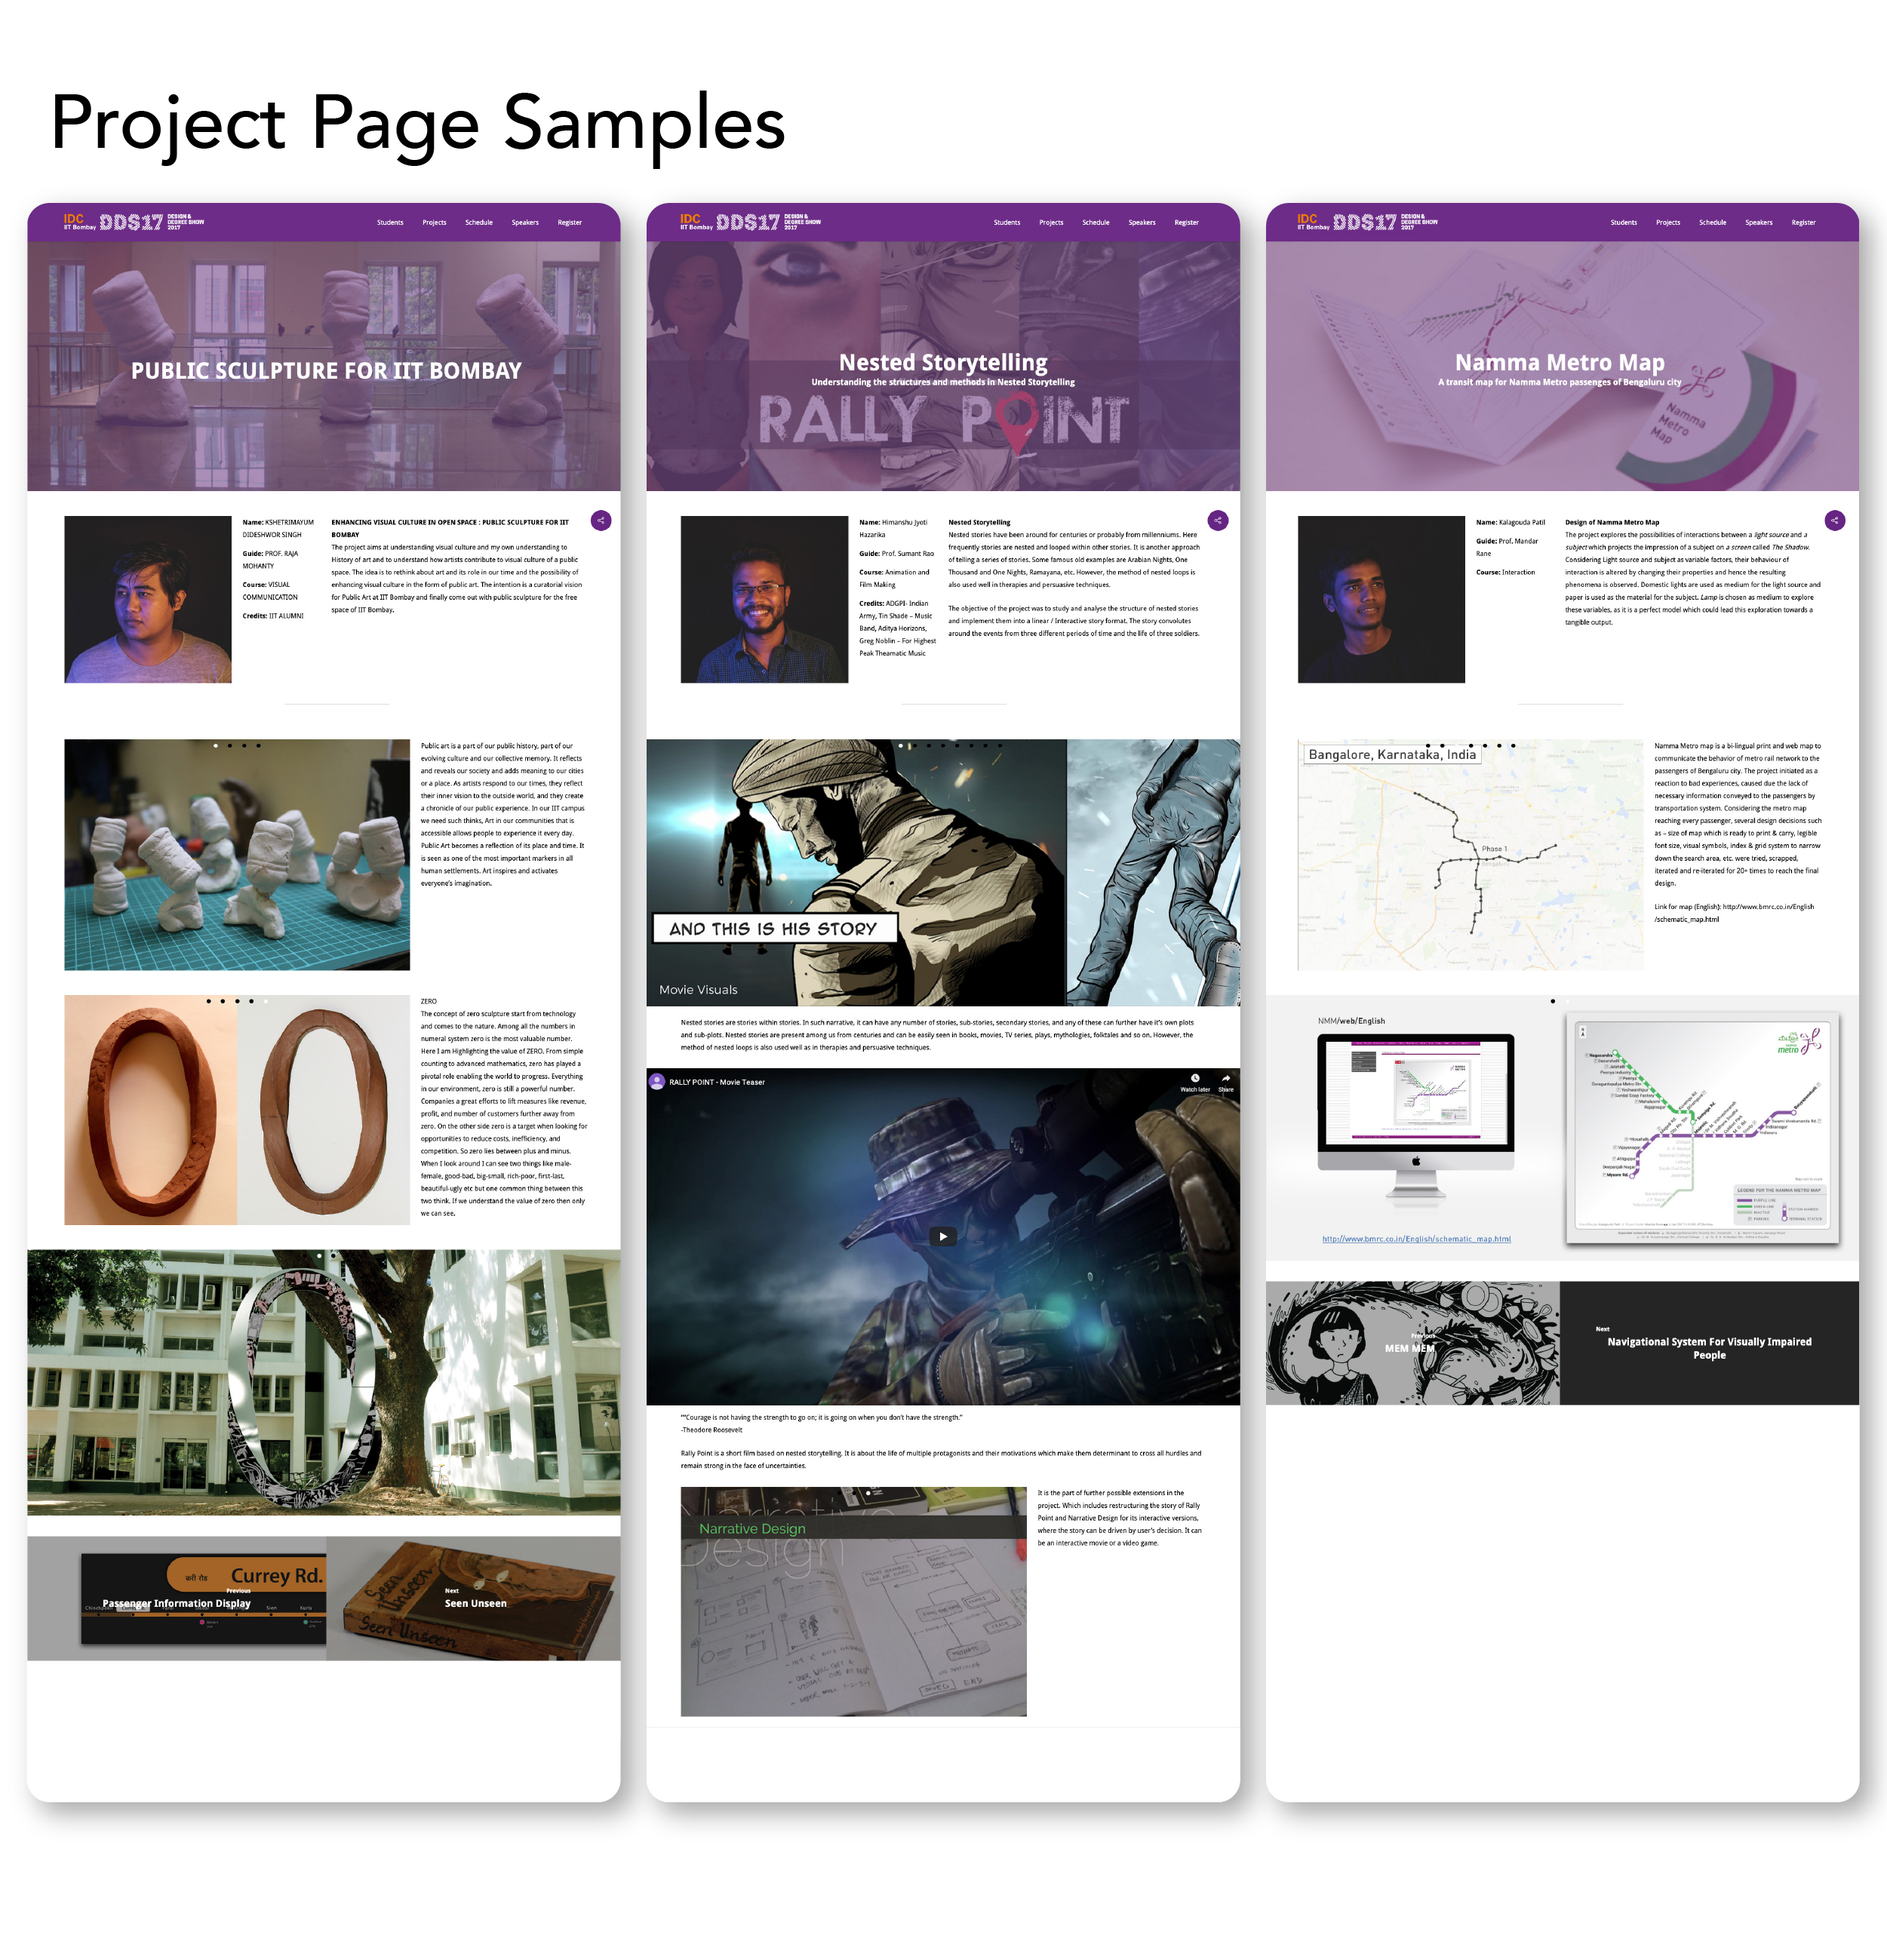
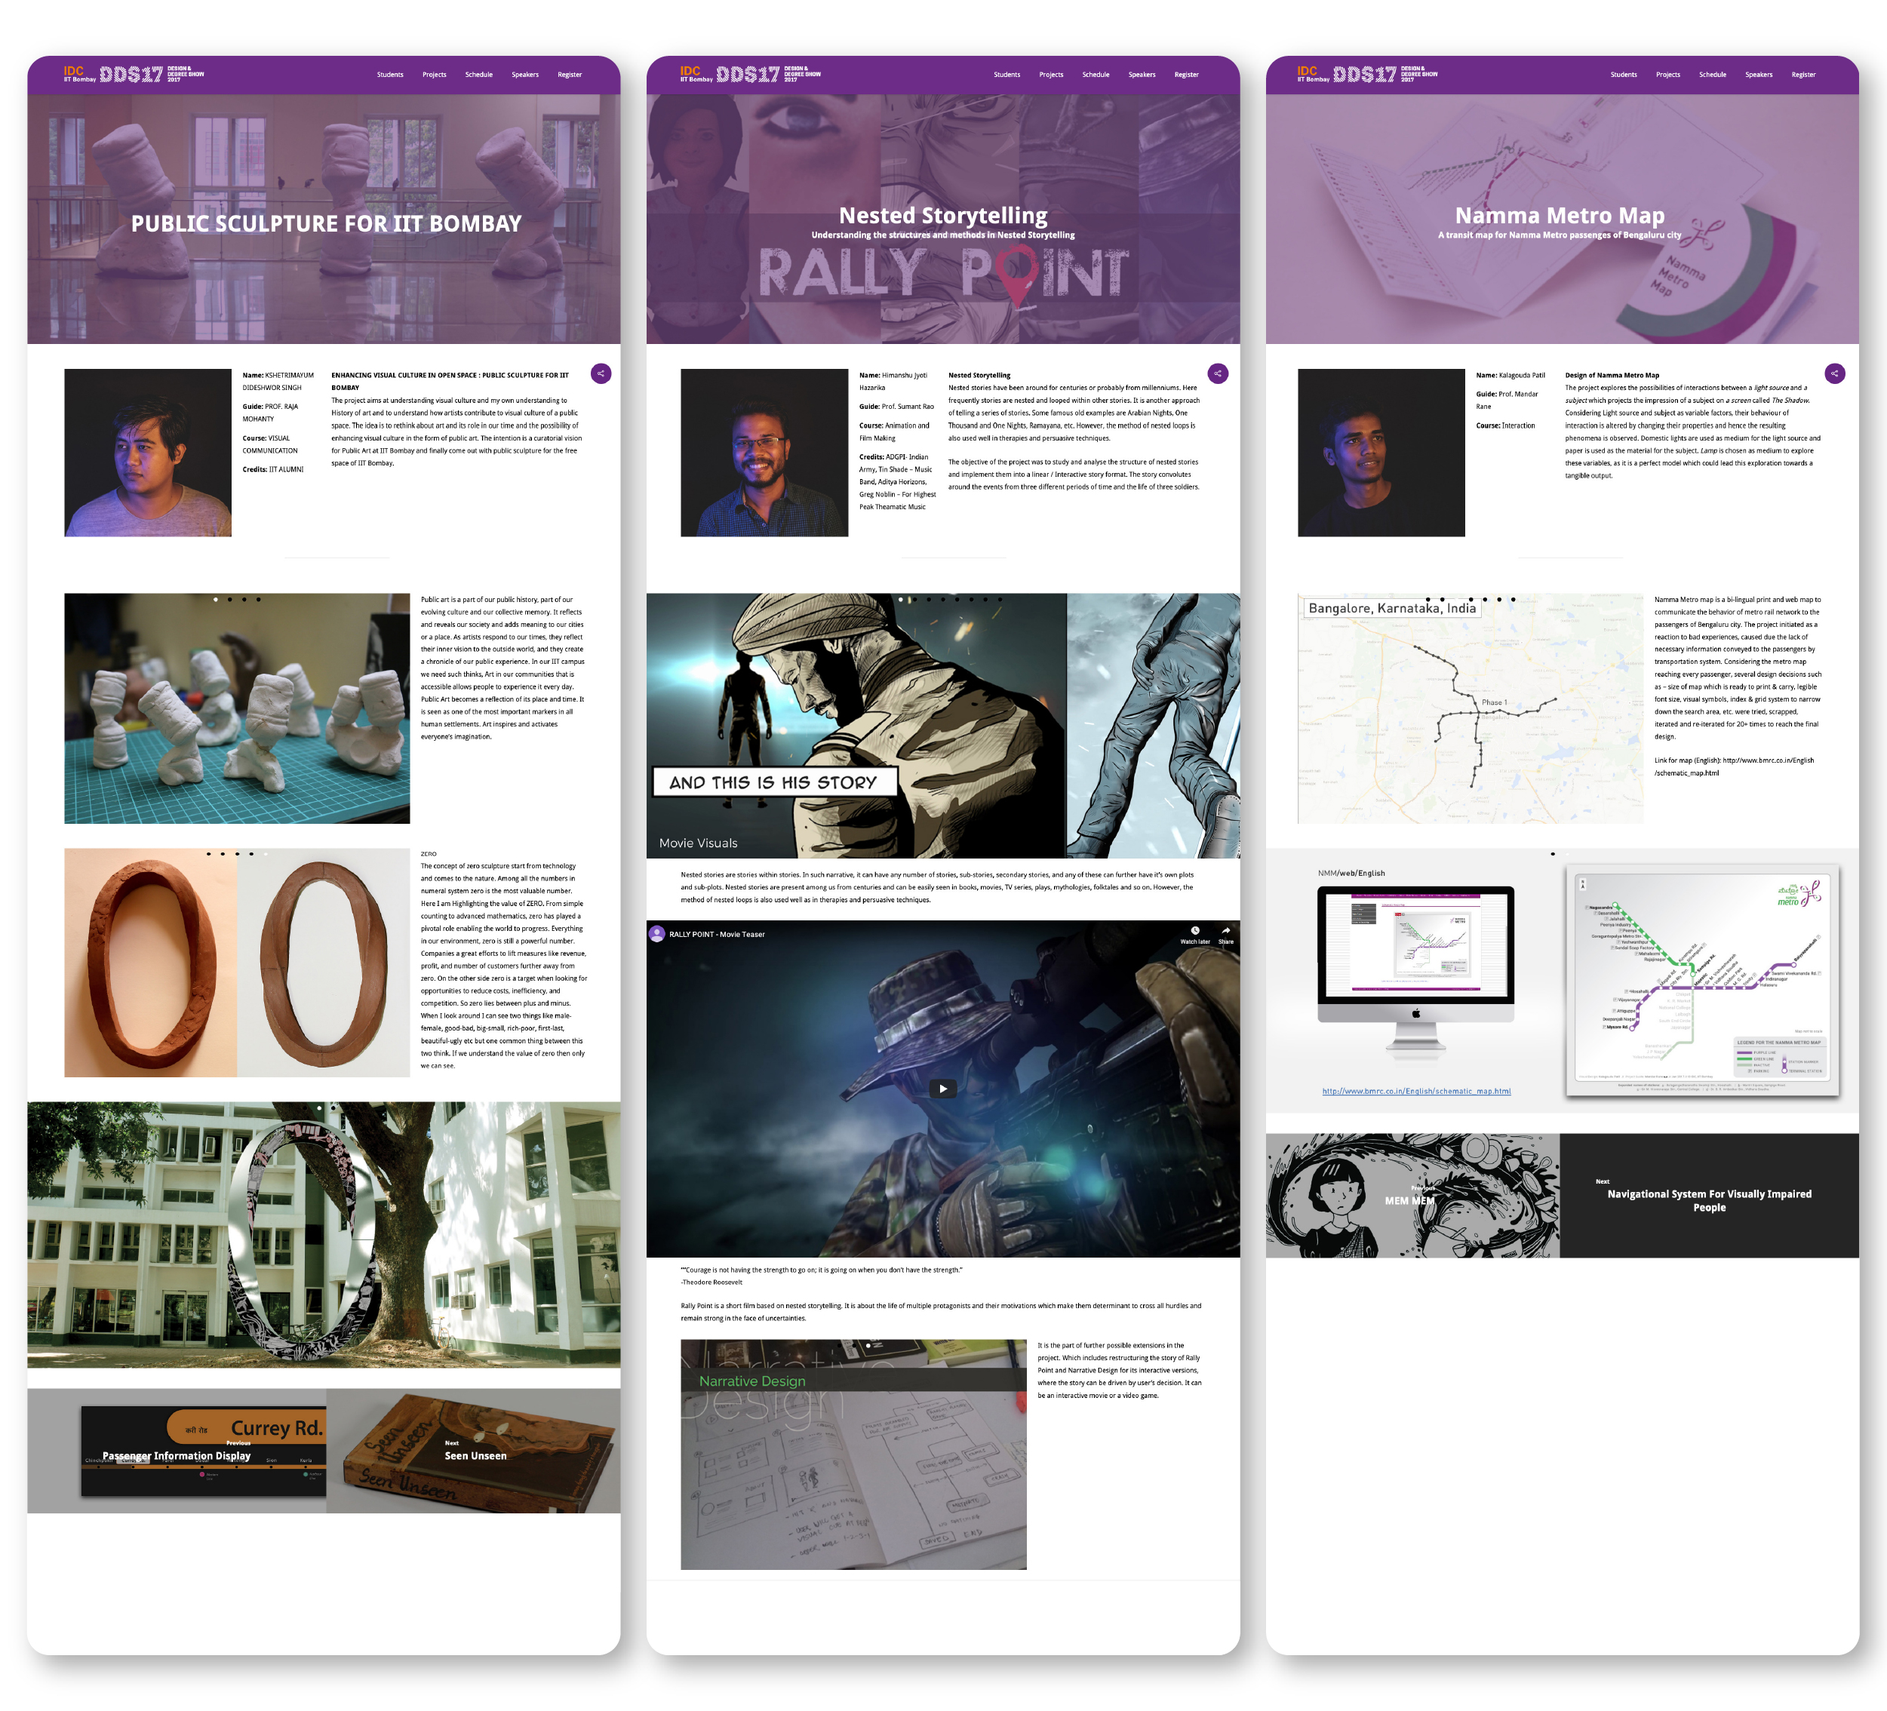
DDS page done

diff --git a/U18_DDS.html b/U18_DDS.html
@@ -1,0 +1,80 @@
+<html>
+<head>
+
+<meta charset="UTF-8">
+<title>Web Design for Design Degree Show - 2017 </title>
+  <link rel="stylesheet" type="text/css" href="res/style.css">
+<link href="https://fonts.googleapis.com/css?family=Nunito&display=swap" rel="stylesheet">
+  <link rel="icon" href="res/fav.png" type="image/gif" sizes="16x16">
+</head>
+
+
+
+<body>
+
+<!-- menu bar standard -->
+  <div class ="top">
+      <h3 id = "home-button" > <a href="index.html" class="logo"> <b>Chandni Rajendran </b></a> </h3>
+      <h3 id = "resume-button"> <a href="resume.html"> resume </a></h3>
+      <h3 id = "about-button"> <a href="about.html">about </a> </h3>
+  </div>
+
+
+  <div class="content">
+      <h3> Website for DDS 2017</h3>
+      <p> Design Degree Show is the annual convention of IDC School of Design, IIT Bombay. It's a platform for the graduating batch of students to showcase their work in a physical and virtual exhibition. It is organised by the graduating batch, working in committees such as events, venue, display, speakers, social media, promotions, sponsors, and digital experience (which I had taken responsibility for).</p>
+      <button href="ddsidc.com/2017/" class="mybutton"> DDS Website </button>
+      <img src="res/U18_DDS/ch_1.jpg">
+      <p>The visual design, branding, student photo-shoot and social media collaterals for the site were created by  <a href="http://ddsidc.com/2017/portfolio/sachit/" target="_blank">Sachit Shyam</a> and <a href="http://ddsidc.com/2017/portfolio/rishabh/" target="_blank"> Rishabh Pandey</a> of Communication Design stream. </p>
+      <img src="res/U18_DDS/ch_8.gif" class="small-img">
+      <p> Key roles of the webiste:
+        <br>
+        - For interested participants to find information about the event.
+        <br>
+        - Target audience: industry professionals, students, design enthusiasts, design community
+        <br>
+        - To showcase students' projects, profiles
+        <br>
+        - Event schedule, speaker details
+        <br>
+        - Ticket booking, payments, modifications
+     </p>
+      <img src="res/U18_DDS/ch_2.jpg">
+      <p> The website was developed on wordpress, using a Salient theme. We went ahead with this $50 theme as it had the most versatile options for handling the kind of content we were planning.</p>
+      <img src="res/U18_DDS/ch_3.jpg">
+      <p> The primary purpose of this website is to serve as a platform for students' work to be available online <del> forever</del> for several years to come.
+      <br>
+      Design of the project page, therefore, was fairly important, and we had to build consensus among all students to ensure the format would do justice to their work and show it in the best light. </p>
+      <img src="res/U18_DDS/ch_4.jpg">
+      <p>Once the common format was agreed upon, we had to create a data collection system, so we could generate roughly 60x3 project pages seamlessly. This included images in specific sizes and text with word limits.
+      <br>
+      In hindsight, it might have been much easier to create editor profiles for all students and enabled them to create their own project pages. It seemed like a challenge to conduct an orientation session with everybody, but it may have been worth the trouble.
+      <br>
+      <br>
+      But were we open to styling each page differently? We should have been. There was an unjustified need to standardise the entire website, but using a powerful CMS like wordpress, we could have created much more room for personal expression.
+      <br>
+      <br>
+      #Learning #DesignerEvolving
+      <br>
+      <br>
+      Here are a few sample project pages:</p>
+      <img src="res/U18_DDS/ch_5.jpg">
+      <p>The student profile page, with all essential information, links to projects: </p>
+      <img src="res/U18_DDS/ch_6.jpg">
+      <p> Summary: I was primarily responsibility for the digital experience. It involved planning, design, co-ordination, and time-line keeping, which might have been the most challenging part, considering it involved 60 friends/classmates, who also had regular coursework to focus on. Take a look at the timeline and activities involved: </p>
+      <img src="res/U18_DDS/ch_7.jpg">
+      <p>The site was received well, and appreciated by staff, students and visitors. I learnt a lot about wordpress development, but would have liked to spend more time on database structures to automate some of the work we struggled with. Working with Sachit Shyam (Branding and Visual Design), Herold (Wordpress Development), vivek Paul Joseph (Ticketing and Event Site Management) and Abhijith (Interaction Design) was a valuable experience I will always fondly remember.</p>
+
+
+  </div>
+
+  <!-- footer standard -->
+
+  <div class="footer">
+    <p> To discuss collaborations, opportunities, <br> please write to chandni[at]tuta[dot]io
+    <br>
+    <br>
+    And of course, &copy; Chandni Rajendran</p>
+  </div>
+</body>
+</html>

diff --git a/template.html b/template.html
@@ -1,0 +1,58 @@
+<html>
+<head>
+
+<meta charset="UTF-8">
+<title>Chandni's Interweb Home </title>
+  <link rel="stylesheet" type="text/css" href="res/style.css">
+<link href="https://fonts.googleapis.com/css?family=Nunito&display=swap" rel="stylesheet">
+  <link rel="icon" href="res/fav.png" type="image/gif" sizes="16x16">
+</head>
+
+
+
+<body>
+
+<!-- menu bar standard -->
+  <div class ="top">
+      <h3 id = "home-button" > <a href="index.html" class="logo"> <b>Chandni Rajendran </b></a> </h3>
+      <h3 id = "resume-button"> <a href="resume.html"> resume </a></h3>
+      <h3 id = "about-button"> <a href="about.html">about </a> </h3>
+  </div>
+
+
+  <div class="content">
+      <h3> Calendar-based Time Display </h3>
+      <p> What is the real question on our minds when we look at the time? We're not simply interested in the numbers that show on our watches, but the derived meaning is always with reference to some events, a context that's unique to every person. And this context of what the time means, is directly linked to one's event calendar.</p>
+      <img src="res/U02_Time/ch_1.jpg">
+      <p> Can there be a visual connection between the event schedule, and the watch dial itself? Can we have a glanceable, snapshot view of our day, as the context to the question "what time is it?"</p>
+
+      <p>Thinking about the calendar day, juxtaposed against the 12 hour dial we are used to, led me to read up a little about the <a href="https://en.wikipedia.org/wiki/24-hour_clock" target="_blank">history of clocks</a>, the history of devices to measure time. </p>
+      <img src="res/U02_Time/ch_2.jpg">
+      <p> There seemed to be two simple ways to put 24 hours on the dial - either all 24 across the 360&deg;, or inner and outer rings of 12 hours each.</p>
+      <img src="res/U02_Time/ch_3.jpg">
+      <p> This is an exploration of a visualisation of key calendar information on the watch dial, to make it more meaningful.</p>
+      <img src="res/U02_Time/ch_4.jpg">
+      <p> Added some intelligent features, such as computed times for commute, waiting time, etc. <br> Explorations with varying degrees of detail:</p>
+      <img src="res/U02_Time/ch_5.jpg">
+      <img src="res/U02_Time/ch_6.jpg">
+      <p> More than the convenience, how would it affect our relationship with time if we saw our day visualised like this? </p>
+      <img src="res/U02_Time/ch_8.jpg">
+      <p>Could this help us make more conscious decisions about how we spend our time? </p>
+<!--
+      <p>This was the first ever user journey map I had made, in 2014, before I even knew what it was called. I haven't updated this project, for nostalgia value.</p>
+      <img src="res/U02_Time/ch_7.jpg"> -->
+      <p>It is still my top candidate for a hobby project. If you're a developer and find this interesting, hit me up, would love to collaborate and see if this works.</p>
+
+
+  </div>
+
+  <!-- footer standard -->
+
+  <div class="footer">
+    <p> To discuss collaborations, opportunities, <br> please write to chandni[at]tuta[dot]io
+    <br>
+    <br>
+    And of course, &copy; Chandni Rajendran</p>
+  </div>
+</body>
+</html>

diff --git a/res/style.css b/res/style.css
@@ -246,12 +246,40 @@ ol{
 
 .content p{
   font-size: 24px;
-  padding: 5% 25% 5% 25%;
+  padding: 7% 25% 2% 25%;
 }
 
 .content a{
     color: #549091;
 }
+.small-img {
+  width: 70% !important;
+  margin: 0 15% 0 15%;
+}
+.myButton {
+	box-shadow:inset 0px 39px 0px -24px #825399;
+	background-color:#6b2d87;
+	border-radius:15px;
+	display:inline-block;
+  /* margin: 2% 30% 2% 30%; */
+  margin: 2% 25% 5% 25%;
+  width: auto;
+	cursor:pointer;
+	color:#ffffff;
+	font-family:Georgia;
+	font-size:18px;
+	font-weight:bold;
+	padding:18px 18px;
+	text-decoration:none;
+}
+.myButton:hover {
+	background-color:#4b285e;
+}
+.myButton:active {
+	position:relative;
+	top:1px;
+}
+
 
 
 

diff --git a/index.html b/index.html
@@ -80,11 +80,11 @@
       </a>
     </ul>
     <ul>
-      <a href="project9.html">
+      <a href="U18_DDS.html">
         <img src="res/U18_DDS/ch_0.jpg">
         <span class="info">
           <h4> Design Degree Show 2017 </h4>
-          <h5> Webdesign, development, content sourcing, and project management. </h5>
+          <h5> Web design, development, content sourcing, and project management. </h5>
         </span>
       </a>
     </ul>
